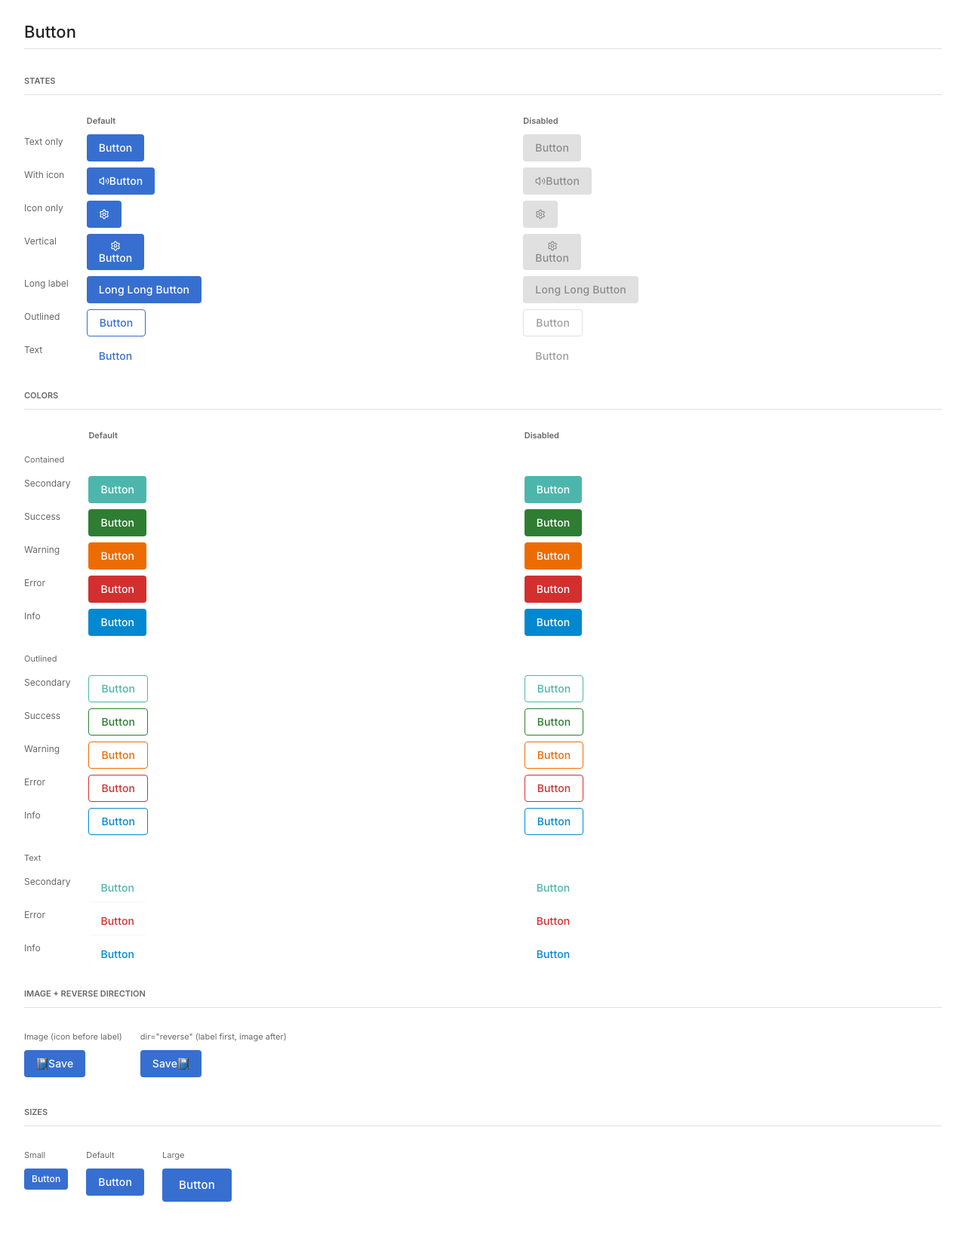
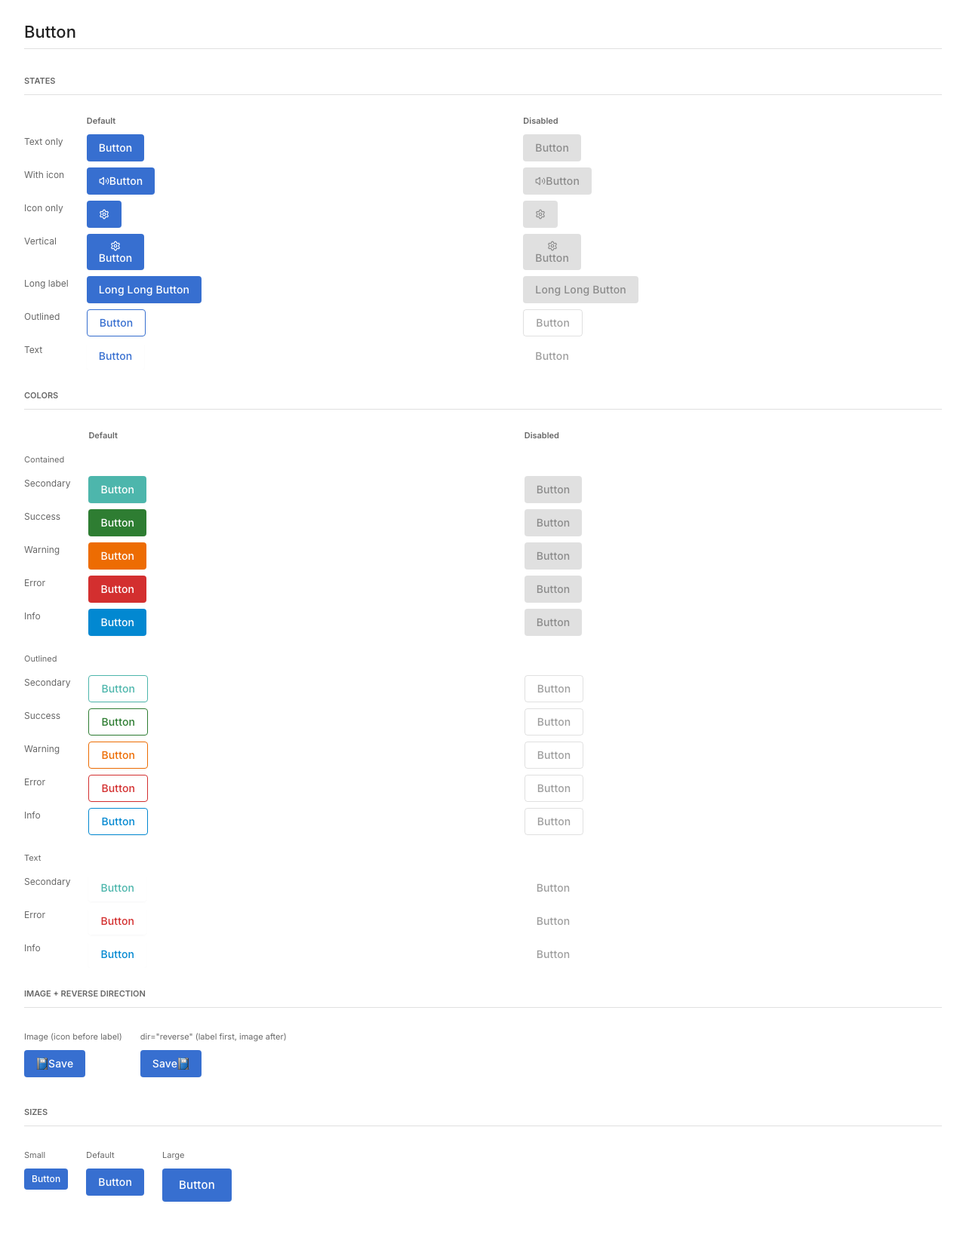
fix(css): restore disabled appearance for all button color variants
Color variant rules (.z-button-{color}.z-button, specificity 0,2,0)
appeared after the base disabled block (.z-button[disabled], same 0,2,0)
in button.css — last-rule-wins caused disabled buttons to render with
full saturated variant colors, indistinguishable from enabled buttons.

Added compound [disabled] overrides (spec 0,3,0) for all three families:
- Contained: secondary/success/warning/error/info/light/dark
- Outlined: outlined-{secondary/success/warning/error/info}
- Text: text-{secondary/error/info}

Note: z-button-outlined-{color} does NOT carry the z-button-outlined
class, so the existing .z-button-outlined.z-button[disabled] override
never matched them — each sub-family needed its own block.

Closes: failing Playwright assertions (color-variant-disabled-state)
Adds: skill reference/color-variant-disabled-pattern.md
Logs: doc/skill-gaps.md (2× entries — contained sweep + sibling sweep)

Changed region(s): [[0.5312, 0.3685, 0.625, 0.522], [0.5625, 0.5527, 0.5938, 0.6755], [0.5625, 0.7062, 0.5938, 0.7676]]

diff --git a/src/main/resources/web/js/zul/wgt/css/button.css b/src/main/resources/web/js/zul/wgt/css/button.css
@@ -163,6 +163,20 @@
 .z-button-dark.z-button::before { background-color: #fff; }
 .z-button-light.z-button::before { background-color: #000; }
 
+/* Disabled overrides for contained color variants (spec 0,3,0 > 0,2,0 variant rules) */
+.z-button-secondary.z-button[disabled],
+.z-button-success.z-button[disabled],
+.z-button-warning.z-button[disabled],
+.z-button-error.z-button[disabled],
+.z-button-info.z-button[disabled],
+.z-button-light.z-button[disabled],
+.z-button-dark.z-button[disabled] {
+    background-color: var(--zk-color-disabled-container);
+    color: var(--zk-color-disabled);
+    border-color: transparent;
+    box-shadow: none;
+}
+
 /* ─── Outlined — color variants ──────────────────────────────────────── */
 .z-button-outlined.z-button {
     background-color: transparent;
@@ -185,6 +199,19 @@
 .z-button-outlined-error.z-button::before     { background-color: var(--zk-color-error, #d32f2f); }
 .z-button-outlined-info.z-button::before      { background-color: var(--zk-color-status-info, #0288d1); }
 
+/* Disabled overrides for outlined color variants (spec 0,3,0 > 0,2,0 variant rules) */
+.z-button-outlined-primary.z-button[disabled],
+.z-button-outlined-secondary.z-button[disabled],
+.z-button-outlined-success.z-button[disabled],
+.z-button-outlined-warning.z-button[disabled],
+.z-button-outlined-error.z-button[disabled],
+.z-button-outlined-info.z-button[disabled] {
+    background-color: transparent;
+    border-color: var(--zk-color-disabled-container);
+    color: var(--zk-color-disabled);
+    box-shadow: none;
+}
+
 /* ─── Text — color variants ──────────────────────────────────────────── */
 .z-button-text.z-button {
     background-color: transparent;
@@ -202,6 +229,17 @@
 .z-button-text-secondary.z-button::before { background-color: var(--zk-color-secondary, #4db6ac); }
 .z-button-text-error.z-button::before     { background-color: var(--zk-color-error, #d32f2f); }
 .z-button-text-info.z-button::before      { background-color: var(--zk-color-status-info, #0288d1); }
+
+/* Disabled overrides for text color variants (spec 0,3,0 > 0,2,0 variant rules) */
+.z-button-text-primary.z-button[disabled],
+.z-button-text-secondary.z-button[disabled],
+.z-button-text-error.z-button[disabled],
+.z-button-text-info.z-button[disabled] {
+    background-color: transparent;
+    border: none;
+    color: var(--zk-color-disabled);
+    box-shadow: none;
+}
 
 /* ─── Sizes ───────────────────────────────────────────────────────────── */
 .z-button-sm.z-button { min-height: 28px; padding: 0 10px; font-size: 12px; }

diff --git a/src/test/playwright/screenshot.spec.ts b/src/test/playwright/screenshot.spec.ts
@@ -52,6 +52,49 @@ test.describe('button', () => {
       });
     }
   }
+
+  // c15-c19: contained color-variant disabled buttons must use disabled-container bg
+  // --zk-color-disabled-container = rgba(0,0,0,0.12), alpha ≈ 0.12 (variant colors are opaque)
+  test('color-variant-disabled-state', async ({ page }) => {
+    const containedVariants = ['secondary', 'success', 'warning', 'error', 'info'];
+    for (const variant of containedVariants) {
+      const alpha = await page.evaluate((cls) => {
+        const el = document.querySelector(`.z-button-${cls}[disabled]`);
+        if (!el) throw new Error(`No disabled .z-button-${cls} found`);
+        const bg = getComputedStyle(el).backgroundColor;
+        const m = bg.match(/rgba\(\s*[\d.]+\s*,\s*[\d.]+\s*,\s*[\d.]+\s*,\s*([\d.]+)\s*\)/);
+        return m ? parseFloat(m[1]) : 1.0; // no alpha → opaque
+      }, variant);
+      expect(alpha, `${variant} disabled button bg should be semi-transparent (disabled-container), not opaque`).toBeLessThanOrEqual(0.2);
+    }
+
+    // c20-c25: outlined color-variant disabled buttons must use disabled text/border colors
+    // --zk-color-disabled = rgba(0,0,0,0.38), alpha ≈ 0.38 (variant colors are opaque)
+    const outlinedVariants = ['secondary', 'success', 'warning', 'error', 'info'];
+    for (const variant of outlinedVariants) {
+      const alpha = await page.evaluate((cls) => {
+        const el = document.querySelector(`.z-button-outlined-${cls}[disabled]`);
+        if (!el) throw new Error(`No disabled .z-button-outlined-${cls} found`);
+        const color = getComputedStyle(el).color;
+        const m = color.match(/rgba\(\s*[\d.]+\s*,\s*[\d.]+\s*,\s*[\d.]+\s*,\s*([\d.]+)\s*\)/);
+        return m ? parseFloat(m[1]) : 1.0;
+      }, variant);
+      expect(alpha, `outlined-${variant} disabled button color should be semi-transparent (disabled), not opaque`).toBeLessThanOrEqual(0.5);
+    }
+
+    // c26-c28: text color-variant disabled buttons must use disabled text color
+    const textVariants = ['secondary', 'error', 'info'];
+    for (const variant of textVariants) {
+      const alpha = await page.evaluate((cls) => {
+        const el = document.querySelector(`.z-button-text-${cls}[disabled]`);
+        if (!el) throw new Error(`No disabled .z-button-text-${cls} found`);
+        const color = getComputedStyle(el).color;
+        const m = color.match(/rgba\(\s*[\d.]+\s*,\s*[\d.]+\s*,\s*[\d.]+\s*,\s*([\d.]+)\s*\)/);
+        return m ? parseFloat(m[1]) : 1.0;
+      }, variant);
+      expect(alpha, `text-${variant} disabled button color should be semi-transparent (disabled), not opaque`).toBeLessThanOrEqual(0.5);
+    }
+  });
 });
 
 // -------------------------------------------------------

diff --git a/doc/skill-gaps.md b/doc/skill-gaps.md
@@ -263,4 +263,6 @@ Append-only record of ZK features that the harness missed and how we structurall
 | 2026-06-16 | errorbox | User-reported: the same errorbox looks **different depending on where it lands** relative to the field — when it pops to the right of the field its icon/close padding looks one way, when it flips to the left/below another. Expected: identical except the pointer direction. Root cause is a ZK framework behaviour, not a token error: `Errorbox._fixarrow` (Errorbox.ts) rewrites the **outer `.z-errorbox`** padding on every reposition, per pointer direction — `padding-left:8px` when the beak points left (box on the right of the field), `padding-top:8px` when up, etc. `.z-errorbox-content` is the `display:table-cell`, so that 8px shifts the content; but `.z-errorbox-icon` and `.z-errorbox-close` are absolutely positioned against `.z-errorbox` and stay put. Measured live (left-pointer box vs. up-pointer box): icon→text gap **4px vs 12px**; content offset 8px vs 0. The beak is positioned 4px OUTSIDE the box, so the padding buys no beak room — it is pure layout noise. | MD3/Mira have no inline-validation-tooltip-with-caret analog, so the harness never measured errorbox geometry at all (the contract only asserted bg/colour/padding/radius/shadow, never icon/close placement). Floating popups also never appear in the gallery screenshot baselines (they render detached in `<body>` and only on a triggered constraint), so visual diffing never saw them. And nothing exercised **more than one** pointer direction, which is the only way the drift is visible. | skill + contract + impl | Skill `components/errorbox.md`: new section "`_fixarrow` rewrites the `.z-errorbox` OUTER padding per direction" (theme-agnostic ZK fact + the `padding:0 !important` neutraliser + why `!important` is required, same inline-style reason as the pointer `display`). Contract `doc/contracts/errorbox.md`: new "position-invariant layout" state (icon→text ~12px, close→edge ~4px constant across all four positions). CSS: `js/zul/inp/css/input.css` (authoritative `input.css.dsp`) **and** mirror `js/zul/wgt/css/errorbox.css` — `.z-errorbox { padding: 0 !important }`. Test: `screenshot.spec.ts › errorbox-position-invariance` (triggers all inputs via `setErrorMessage`, asserts every real errorbox has icon gap ∈[10,14] & close gap ∈[2,6] and the spread across directions ≤2px). | Fixed & verified live: after the fix every errorbox (left & up pointers exercised) reads icon→text **12px**, close→edge **4px**, computed padding **0** — identical layout, only the pointer differs; the right-positioned beak still touches the field exactly (box.left == field.right, tip 4px into field). Playwright test FAILED failing-first on the stripped build (`iconLeftFromContent: 4`, expected ≥10), PASSES after the fix. Full chromium suite **51/51 green** (no baseline regression — floating errorboxes aren't in any gallery snapshot). |
 | 2026-06-16 | label (form rows; textbox/combobox/radiogroup adjacency) | User noticed a `<label>` beside an input aligns **differently** depending on its container — and "worse" beside a radiogroup. Measured live (`label-center − field-center`): bare `<div>` **−30px** (label clings to field top), default `<hlayout>` (`valign="top"`) **−10px**, `<hlayout valign="middle">` **0px (centred)**. The offset is **identical** across textbox/combobox/radiogroup — the variance is purely the container's vertical-align reference (baseline-vs-`middle` inline mix in a `div`; top-vs-top cells in default hlayout; `.z-valign-middle` cells when valign=middle). The radiogroup only *looks* worse because its glyph is centred in a tall empty 40px box, so a top-clinging label floats in blank space above the circle (same geometry, different ink). **Not a CSS bug** — it is the correct output of three layout modes. | The harness drives off MD3/Mira, and **MD3 has no standalone-label-beside-field construct** (MD3 labels live inside/above the field), so alignment of a bare label next to a field was never something a contract or evaluator looked at. No component owns the rule because the correct answer is "the container decides", which no per-component contract expresses. | skill + design (not-a-bug; no code change, no test per loop rule) | Skill `reference/inline-label-alignment.md` (the container-valign matrix + baseline-vs-middle mechanism + why `.z-label` must stay untouched + radio perceptual note; theme-independent ZK fact), cross-linked from `components/hlayout-vlayout.md`. DESIGN.md §13 "Label ↔ field horizontal alignment (form rows)": theme stance — never auto-centre a bare label; canonical row is `<hlayout valign="middle">`/`<hbox valign="middle">` or flex centre. Analysis: `tasks/label-alignment-analysis.md`. | Resolved as **not-a-bug**: `<hlayout valign="middle">` already centres at 0px in the current theme (ZK-core `.z-valign-middle .z-hlayout-inner{vertical-align:middle}`, theme doesn't break it). No CSS change, no Playwright test (loop rule: not-a-bug needs no test). Fix is an authoring rule, encoded in skill + DESIGN.md. |
 | 2026-06-16 | errorbox (follow-up to the position-invariance row above; same day) | Two follow-ups to the errorbox fix above. (1) **Regression I introduced:** my first fix neutralised ZK's one-sided padding with `.z-errorbox { padding:0 !important }`. That fixed the icon/close drift but **pulled the beak inside the content**: the pointer is at `left/top:-4px` and the triangle is 12px wide, so its base sits at `-4+12 = 8px` from the box edge — ZK insets the content by `pw=8px` precisely so the base lands flush at the content edge. With padding:0 the content fills to the box edge while the base stays at 8px → the arrow ends up 8px INSIDE the red box. User-reported: "the red triangle should be just outside the box edge, now it's inside — wrong." The padding is **load-bearing for the beak**, not "layout noise" as the first row claimed. (2) **Gallery cleanup:** the errorbox State Gallery had 3 static mockups (no-arrow / arrow-only / closable-only); a real errorbox always has all three parts (pointer+icon+close), so they were merged into one canonical mockup mirroring `Errorbox#redraw`. | The first-round Playwright test only asserted the icon/close **gaps** (which padding:0 satisfied) — it never measured **where the beak sits relative to the content**, so the arrow-inside regression passed every check. The beak-vs-content geometry had no contract row and no test assertion; the first fix was reasoned about geometrically but not guarded, so an over-correction shipped. | impl + skill (correction) + contract (correction) | CSS `js/zul/inp/css/input.css` (+ mirror `wgt/css/errorbox.css`): replace `padding:0` with **symmetric** beak room — `.z-errorbox { --zk-errorbox-beak: 8px; padding: var(--zk-errorbox-beak) !important }` and re-add the beak to the sub-element offsets: `.z-errorbox-icon { left: calc(var(--zk-spacing-3) + var(--zk-errorbox-beak)) }`, `.z-errorbox-close { right: calc(var(--zk-spacing-1) + var(--zk-errorbox-beak)) }`. Content is now inset equally on all sides → beak flush at whichever edge it points to AND gaps constant. Skill `components/errorbox.md`: corrected the "neutralise it" section to "make it symmetric, don't zero it" (documents the `-4px + 12px triangle = 8px base` math + the arrow-inside trap + the border-coupling of the 8px). Contract `doc/contracts/errorbox.md`: corrected the position-invariance row + new "beak flush OUTSIDE the content (intrusion ≤1px)" + "complete structure (always pointer+icon+close)" rows. ZUL `src/test/resources/web/errorbox.zul`: 3 gallery cols → 1. Test: extended `errorbox-position-invariance` to also measure `beakIntrusion` per direction and assert ≤1px. | Fixed & verified live: every errorbox (gallery down-pointer + live left/up pointers) reads icon→text **12px**, close→edge **4px**, computed padding **8px**, beak intrusion **0** (base flush at content edge, triangle outside). Test FAILED failing-first on the re-stripped `padding:0` build (`beakIntrusion:8`, `iconLeftFromContent:0`), PASSES after the symmetric fix. Full chromium suite **51/51 green**. |
+| 2026-06-17 | button (all color variants: secondary, success, warning, error, info) | Color variant disabled state overridden by same-specificity rule — disabled button retains full saturated color, indistinguishable from an enabled button. Root cause: color variant rules (`.z-button-{color}.z-button`, specificity 0,2,0) appear **after** the base disabled block (`.z-button[disabled]`, same specificity 0,2,0) in button.css — last rule wins. The `z-button-outlined` / `z-button-text` / base `z-button` variants are unaffected because they already have explicit compound disabled rules placed after their variant rules. | Evaluator never applied color-variant sclasses AND disabled simultaneously; the button contract only checked `.z-button[disabled]` (the base variant) and did not enumerate per-color-variant disabled states. Gallery screenshot showed disabled base buttons looking grey — the per-variant disabled appearance was never measured. | skill + contract | Skill: `.claude/skills/zk-component-rules/reference/color-variant-disabled-pattern.md` (new — any theme adding sclass-based color variants must pair them with higher-specificity disabled overrides); Contract: `doc/contracts/button.md` — new rows c15–c19 asserting each color-variant disabled button uses `--zk-color-disabled-container` bg + `--zk-color-disabled` text; CSS: `js/zul/wgt/css/button.css` — compound `.z-button-{color}.z-button[disabled]` block; Test: `screenshot.spec.ts` › `button` › `color-variant-disabled-state` |
+| 2026-06-17 | button (outlined color variants: outlined-secondary/success/warning/error/info; text color variants: text-secondary/error/info) | **Sibling sweep of the 2026-06-17 contained-variant gap above.** Same specificity-tie root cause, different variant families. `z-button-outlined-secondary.z-button` (0,2,0) appears after `.z-button[disabled]` (0,2,0) → variant color wins for `color` and `border-color` on disabled outlined buttons. `z-button-outlined.z-button[disabled]` (0,3,0) does NOT match these because the button only carries `z-button-outlined-secondary` class, not `z-button-outlined`. Same issue for text variants. | The 2026-06-17 fix only covered contained variants. The pattern is identical but the selectors are different (`z-button-outlined-{color}` / `z-button-text-{color}` never carry the base `z-button-outlined` / `z-button-text` class, so the existing base disabled overrides don't apply to them). | skill + contract | Same skill file: `.claude/skills/zk-component-rules/reference/color-variant-disabled-pattern.md` — updated to document outlined and text sub-families; Contract: `doc/contracts/button.md` rows c20–c28; CSS: compound `.z-button-outlined-{color}.z-button[disabled]` + `.z-button-text-{color}.z-button[disabled]` blocks; Test: extended `color-variant-disabled-state` |
 | 2026-06-16 | label (CORRECTION to the row above) | Re-measured the label↔field alignment at a **real 1280px viewport**; the earlier row's "uniform −30px, label clings to top in a bare `<div>`" was a **measurement artifact of a collapsed 0×0 MCP viewport** (inline content stacked; radios wrapped to a fake 80px). Real numbers: bare `<div>` → textbox **−1.5**, combobox **0**, radiogroup **+5**; `<hlayout valign="middle">` → **0** for all. So a bare `<div>` already *centres* single-line inputs (textbox via theme `vertical-align:middle`; combobox via its `inline-flex` baseline coinciding with its box centre) and only drops the **radiogroup ~5px**, because a radiogroup's baseline is its **caption text** baseline (~6px below the box centre). Proof: toggling the `<div>` radiogroup to `vertical-align:middle` moves it +5→−1.5 (matches textbox); the combobox is already 0. `valign="middle"` replaces baseline with box-middle, so only the caption-bearing control (radio/checkbox) visibly shifts when you add it. | The 0×0 viewport trap (memory `reference_screenshot_capture_hang`) silently distorts every width-dependent measurement; the first pass trusted it. The real mechanism (caption controls baseline-align below their box centre, single-line inputs don't) is finer-grained than "div misaligns everything". | skill + design (correction; still not-a-bug) | Corrected `reference/inline-label-alignment.md` (real-width matrix + caption-baseline mechanism + 0-width caveat), `doc/DESIGN.md` §13 (replaced the wrong "~30px high" claim), `tasks/label-alignment-analysis.md` (full re-measure with correction note). Still resolves not-a-bug: `<hlayout valign="middle">` centres all field types; no CSS change, no test. | Verified at innerW=1280: div {textbox −1.5, combobox 0, radiogroup +5}, hlayout-middle {all 0}. Matches user's report (textbox/combobox same between div & hlayout; radiogroup differs). |

diff --git a/.claude/skills/zk-component-rules/reference/color-variant-disabled-pattern.md b/.claude/skills/zk-component-rules/reference/color-variant-disabled-pattern.md
@@ -1,0 +1,110 @@
+# Color-Variant Disabled Override Pattern
+
+**Applies to:** any ZK theme that adds sclass-based semantic color variants to a component.
+
+## The Problem
+
+When a theme adds color variants via compound selectors like `.z-button-success.z-button`
+(specificity 0,2,0), and the base disabled rule also uses a compound selector like
+`.z-button[disabled]` (specificity 0,2,0), both rules have **identical specificity**.
+
+CSS last-rule-wins: if the color variant block appears **after** the disabled block in the
+source file, the variant color paints over the disabled appearance on a button that is both
+a color variant AND disabled.
+
+Result: `.z-button-success[disabled]` renders as a fully saturated green, visually
+indistinguishable from an enabled button.
+
+## Rule
+
+> Every sclass-based color variant rule **must be followed** by a corresponding disabled
+> override using a **higher-specificity selector** (add the attribute selector `[disabled]`
+> to raise specificity to 0,3,0).
+
+## The Extra Trap: Sub-families That Don't Inherit the Base Disabled Override
+
+A base disabled rule like `.z-button-outlined.z-button[disabled]` does **not** match
+`.z-button-outlined-secondary.z-button[disabled]`, because the latter button only carries
+`z-button-outlined-secondary` as a class — it does NOT also carry `z-button-outlined`.
+
+This means each sub-family (`outlined-{color}`, `text-{color}`, etc.) needs its own
+disabled override block, even if a "base" override already exists for the parent family.
+
+## Patterns by Variant Family
+
+### Contained (background-color changes)
+```css
+/* ── Contained color variants (spec 0,2,0) ── */
+.z-button-success.z-button { background-color: var(--zk-color-success); color: #fff; }
+
+/* ── Disabled overrides — must reset to disabled token (spec 0,3,0) ── */
+.z-button-success.z-button[disabled] {
+    background-color: var(--zk-color-disabled-container);
+    color: var(--zk-color-disabled);
+    border-color: transparent;
+    box-shadow: none;
+}
+```
+
+### Outlined (border-color and color change)
+```css
+/* ── Outlined color variants (spec 0,2,0) ── */
+.z-button-outlined-error.z-button { color: var(--zk-color-error); border: 1px solid var(--zk-color-error); }
+
+/* ── Disabled overrides (spec 0,3,0) ── */
+.z-button-outlined-error.z-button[disabled] {
+    background-color: transparent;
+    border-color: var(--zk-color-disabled-container);
+    color: var(--zk-color-disabled);
+    box-shadow: none;
+}
+```
+
+### Text (only color changes)
+```css
+/* ── Text color variants (spec 0,2,0) ── */
+.z-button-text-error.z-button { color: var(--zk-color-error); border: none; }
+
+/* ── Disabled overrides (spec 0,3,0) ── */
+.z-button-text-error.z-button[disabled] {
+    background-color: transparent;
+    border: none;
+    color: var(--zk-color-disabled);
+    box-shadow: none;
+}
+```
+
+## Specificity Breakdown
+
+| Selector | Spec | Wins over |
+|----------|------|-----------|
+| `.z-button[disabled]` (base disabled) | 0,2,0 | tied with color variants |
+| `.z-button-success.z-button` (color variant) | 0,2,0 | ties with base disabled |
+| `.z-button-outlined.z-button[disabled]` (outlined base disabled) | 0,3,0 | beats `.z-button-outlined.z-button` but does NOT match `z-button-outlined-success` |
+| `.z-button-success.z-button[disabled]` (this pattern) | 0,3,0 | beats color variant |
+
+## Which Components Need This
+
+Any component CSS that:
+1. Defines color variants via two-class compound selectors (`.z-{variant}.z-{component}`)
+2. AND defines a base disabled rule without the variant class
+
+Currently implemented in Marble: **button** — contained variants (`secondary`, `success`,
+`warning`, `error`, `info`, `light`, `dark`), outlined variants (`outlined-{color}`), and
+text variants (`text-{color}`).
+
+When adding color variants to other components, apply the same pattern immediately.
+
+## Checklist
+
+When adding a new sclass color variant to any component:
+- [ ] Add the variant rule (`.z-{variant}.z-{component} { ... }`)
+- [ ] Immediately add a disabled override (`.z-{variant}.z-{component}[disabled] { ... }`)
+- [ ] If the variant is a sub-family (e.g. `outlined-error`), do NOT rely on the base family's disabled rule — add a separate override
+- [ ] Contract: add a row asserting disabled state uses disabled colors
+- [ ] Playwright: assert disabled button color/bg alpha ≤ 0.5 (semi-transparent disabled token)
+
+## Related
+
+- `components/button.md` — button color variants + disabled selectors
+- `reference/state-classes.md` — how ZK emits disabled classes vs attributes

diff --git a/doc/contracts/button.md b/doc/contracts/button.md
@@ -30,6 +30,22 @@ zk-version: 10.2.1-jakarta
 | c13 | `.z-button[disabled]` | opacity | 0.38 |
 | c14 | `.z-button` | box-shadow | elevation level 1 (resting) |
 
+| c15 | `.z-button-secondary.z-button[disabled]` | background-color | `--zk-color-disabled-container` (not the secondary color) |
+| c16 | `.z-button-success.z-button[disabled]` | background-color | `--zk-color-disabled-container` (not the success color) |
+| c17 | `.z-button-warning.z-button[disabled]` | background-color | `--zk-color-disabled-container` (not the warning color) |
+| c18 | `.z-button-error.z-button[disabled]` | background-color | `--zk-color-disabled-container` (not the error color) |
+| c19 | `.z-button-info.z-button[disabled]` | background-color | `--zk-color-disabled-container` (not the info color) |
+| c20 | `.z-button-outlined-secondary.z-button[disabled]` | color | `--zk-color-disabled` (not the secondary color) |
+| c21 | `.z-button-outlined-secondary.z-button[disabled]` | border-color | `--zk-color-disabled-container` (not the secondary color) |
+| c22 | `.z-button-outlined-success.z-button[disabled]` | color | `--zk-color-disabled` |
+| c23 | `.z-button-outlined-error.z-button[disabled]` | color | `--zk-color-disabled` |
+| c24 | `.z-button-outlined-warning.z-button[disabled]` | color | `--zk-color-disabled` |
+| c25 | `.z-button-outlined-info.z-button[disabled]` | color | `--zk-color-disabled` |
+| c26 | `.z-button-text-secondary.z-button[disabled]` | color | `--zk-color-disabled` (not the secondary color) |
+| c27 | `.z-button-text-error.z-button[disabled]` | color | `--zk-color-disabled` |
+| c28 | `.z-button-text-info.z-button[disabled]` | color | `--zk-color-disabled` |
+
 ## States to evaluate
 - [ ] default, hover, focus-visible, active (pressed), disabled
 - [ ] variants if applicable: outlined, text (sclass="z-button-outlined", "z-button-text")
+- [ ] color variants in disabled state: secondary, success, warning, error, info
